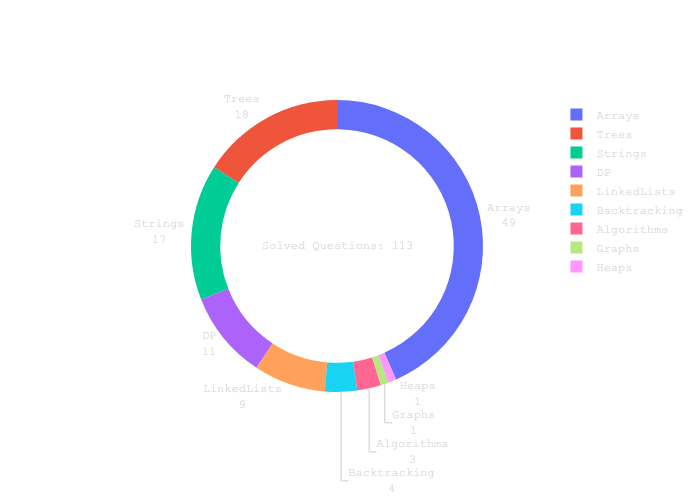
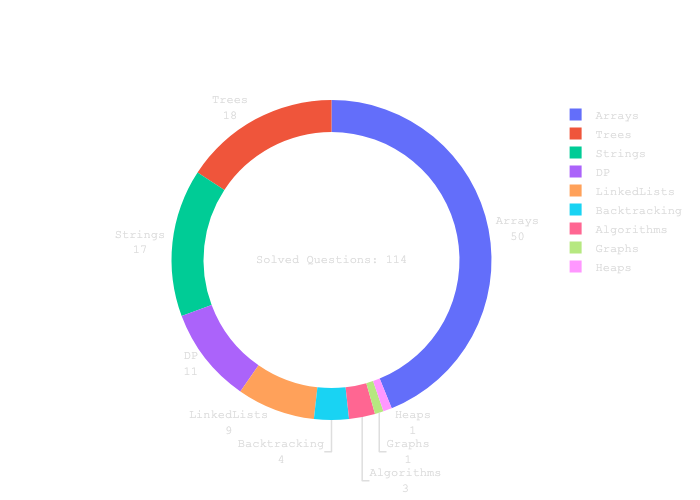
trapped rain water

diff --git a/Arrays/trapRainWater.py b/Arrays/trapRainWater.py
@@ -1,0 +1,26 @@
+from typing import List
+
+
+def trapRainWater(height: List[int]) -> int:
+    trapped = 0
+    maxL = maxR = 0
+    N = len(height)
+    l, r = 0, N - 1
+    res = [0] * N
+    while l < r:
+        if maxL < maxR:
+            l += 1
+            maxL = max(maxL, height[l])
+            trapped += maxL - height[l]
+        else:
+            r -= 1
+            maxR = max(maxL, height[r])
+            trapped += maxR - height[r]
+
+    print(res)
+    return trapped
+
+
+print(trapRainWater(height=[0, 1, 0, 2, 1, 0, 1, 3, 2, 1, 2, 1]))
+print(trapRainWater(height=[2, 1, 0, 0, 1, 3, 1, 0, 3, 0, 0, 2, 1, 1, 2]))
+# print(trapRainWater(height=[4, 2, 0, 3, 2, 5]))
